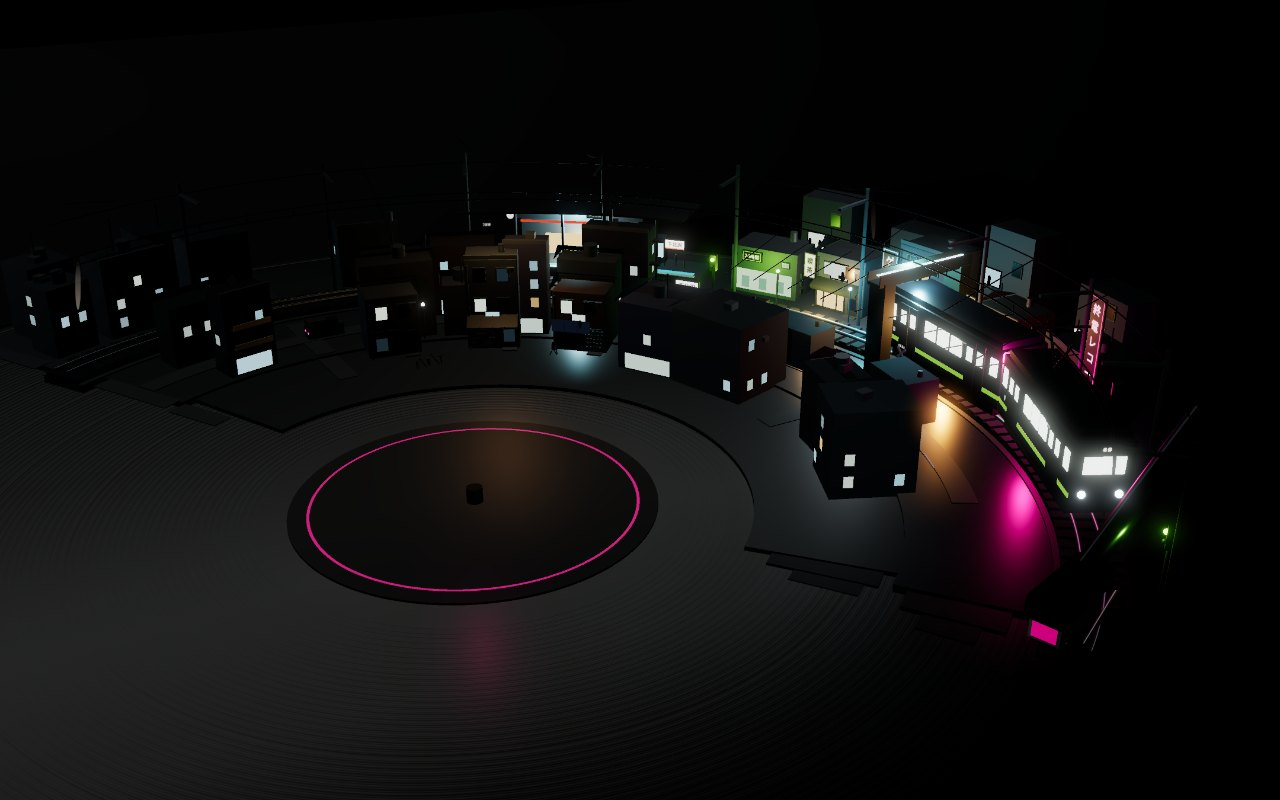
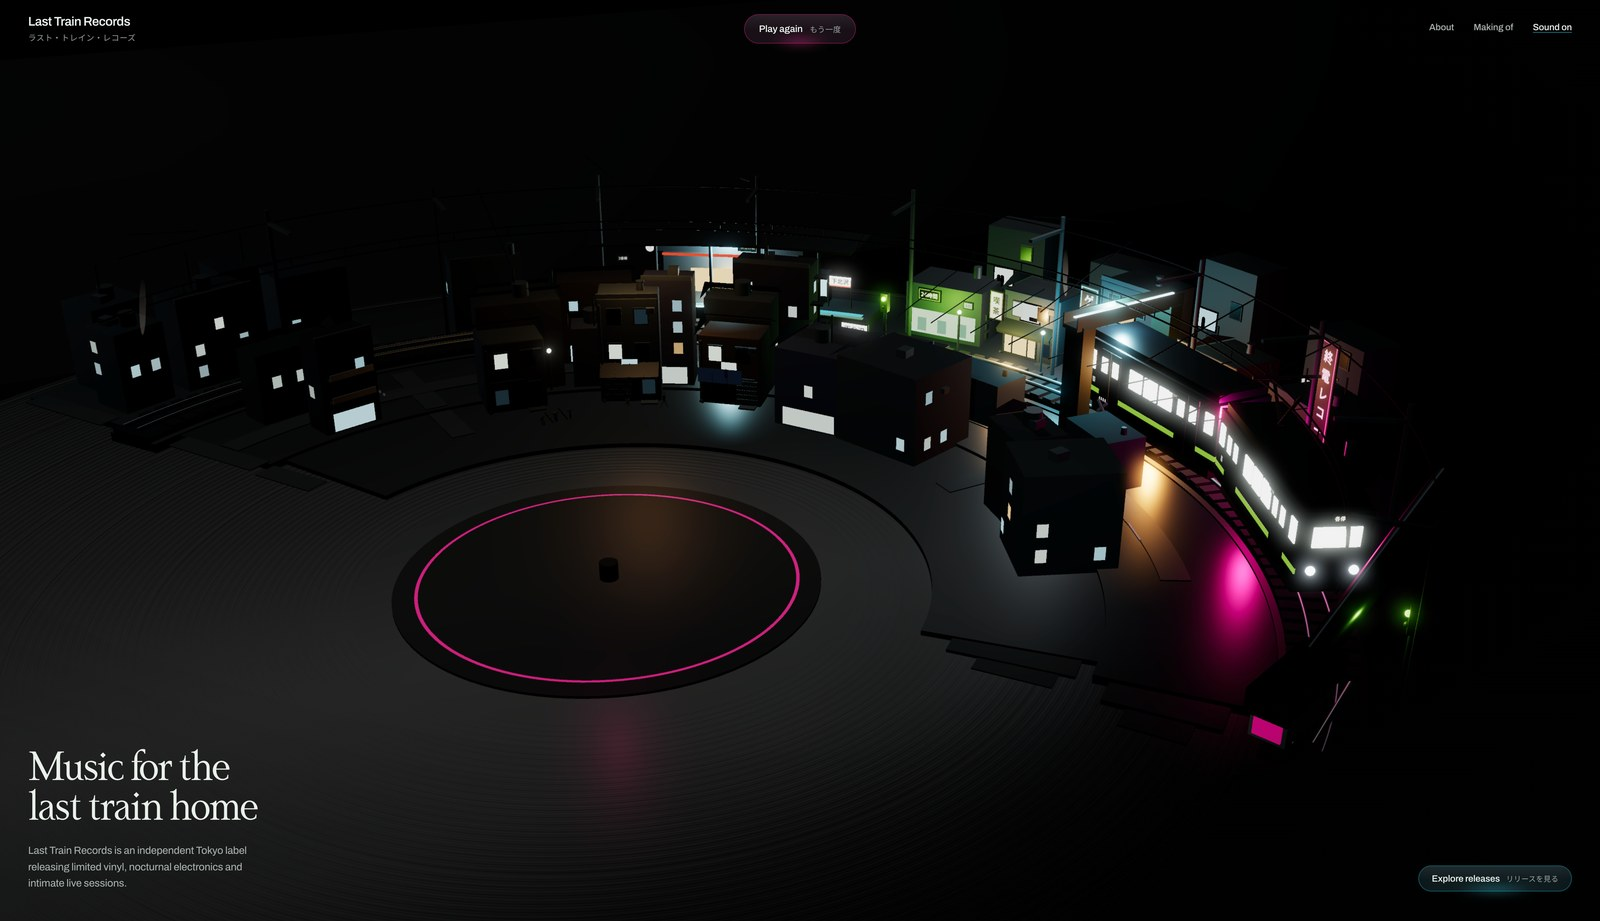
Use the finished hero frame as the README and link-preview image
Replaces the canvas-only capture with the real composition — headline,
wordmark and all — taken from the settled city at full resolution.

Adds a 1200x630 social card and the Open Graph and Twitter metadata that
points at it, so shared links show the work rather than a blank card.

diff --git a/index.html b/index.html
@@ -5,6 +5,38 @@
     <meta name="viewport" content="width=device-width, initial-scale=1.0" />
     <meta name="color-scheme" content="dark" />
     <title>Last Train Records — The city plays after midnight.</title>
+    <meta
+      name="description"
+      content="A vinyl record whose grooves rise into a miniature late-night Tokyo railway neighbourhood, rendered live in the browser."
+    />
+
+    <!--
+      Link previews. Social scrapers do not resolve relative paths, so the
+      image and URL have to be absolute — this is the one place the deployed
+      address is written down. Update both if the site ever moves.
+    -->
+    <meta property="og:type" content="website" />
+    <meta property="og:site_name" content="Last Train Records" />
+    <meta property="og:title" content="Last Train Records" />
+    <meta
+      property="og:description"
+      content="A vinyl record whose grooves rise into a miniature late-night Tokyo railway neighbourhood, rendered live in the browser."
+    />
+    <meta property="og:url" content="https://hxmzaehsan.github.io/last-train-records/" />
+    <meta property="og:image" content="https://hxmzaehsan.github.io/last-train-records/og.jpg" />
+    <meta property="og:image:width" content="1200" />
+    <meta property="og:image:height" content="630" />
+    <meta
+      property="og:image:alt"
+      content="A vinyl record on a dark surface, its outer edge risen into a miniature night-time Tokyo neighbourhood with a lit commuter train and neon signage."
+    />
+    <meta name="twitter:card" content="summary_large_image" />
+    <meta name="twitter:title" content="Last Train Records" />
+    <meta
+      name="twitter:description"
+      content="A vinyl record whose grooves rise into a miniature late-night Tokyo railway neighbourhood, rendered live in the browser."
+    />
+    <meta name="twitter:image" content="https://hxmzaehsan.github.io/last-train-records/og.jpg" />
     <style>
       html {
         background: #070403;
